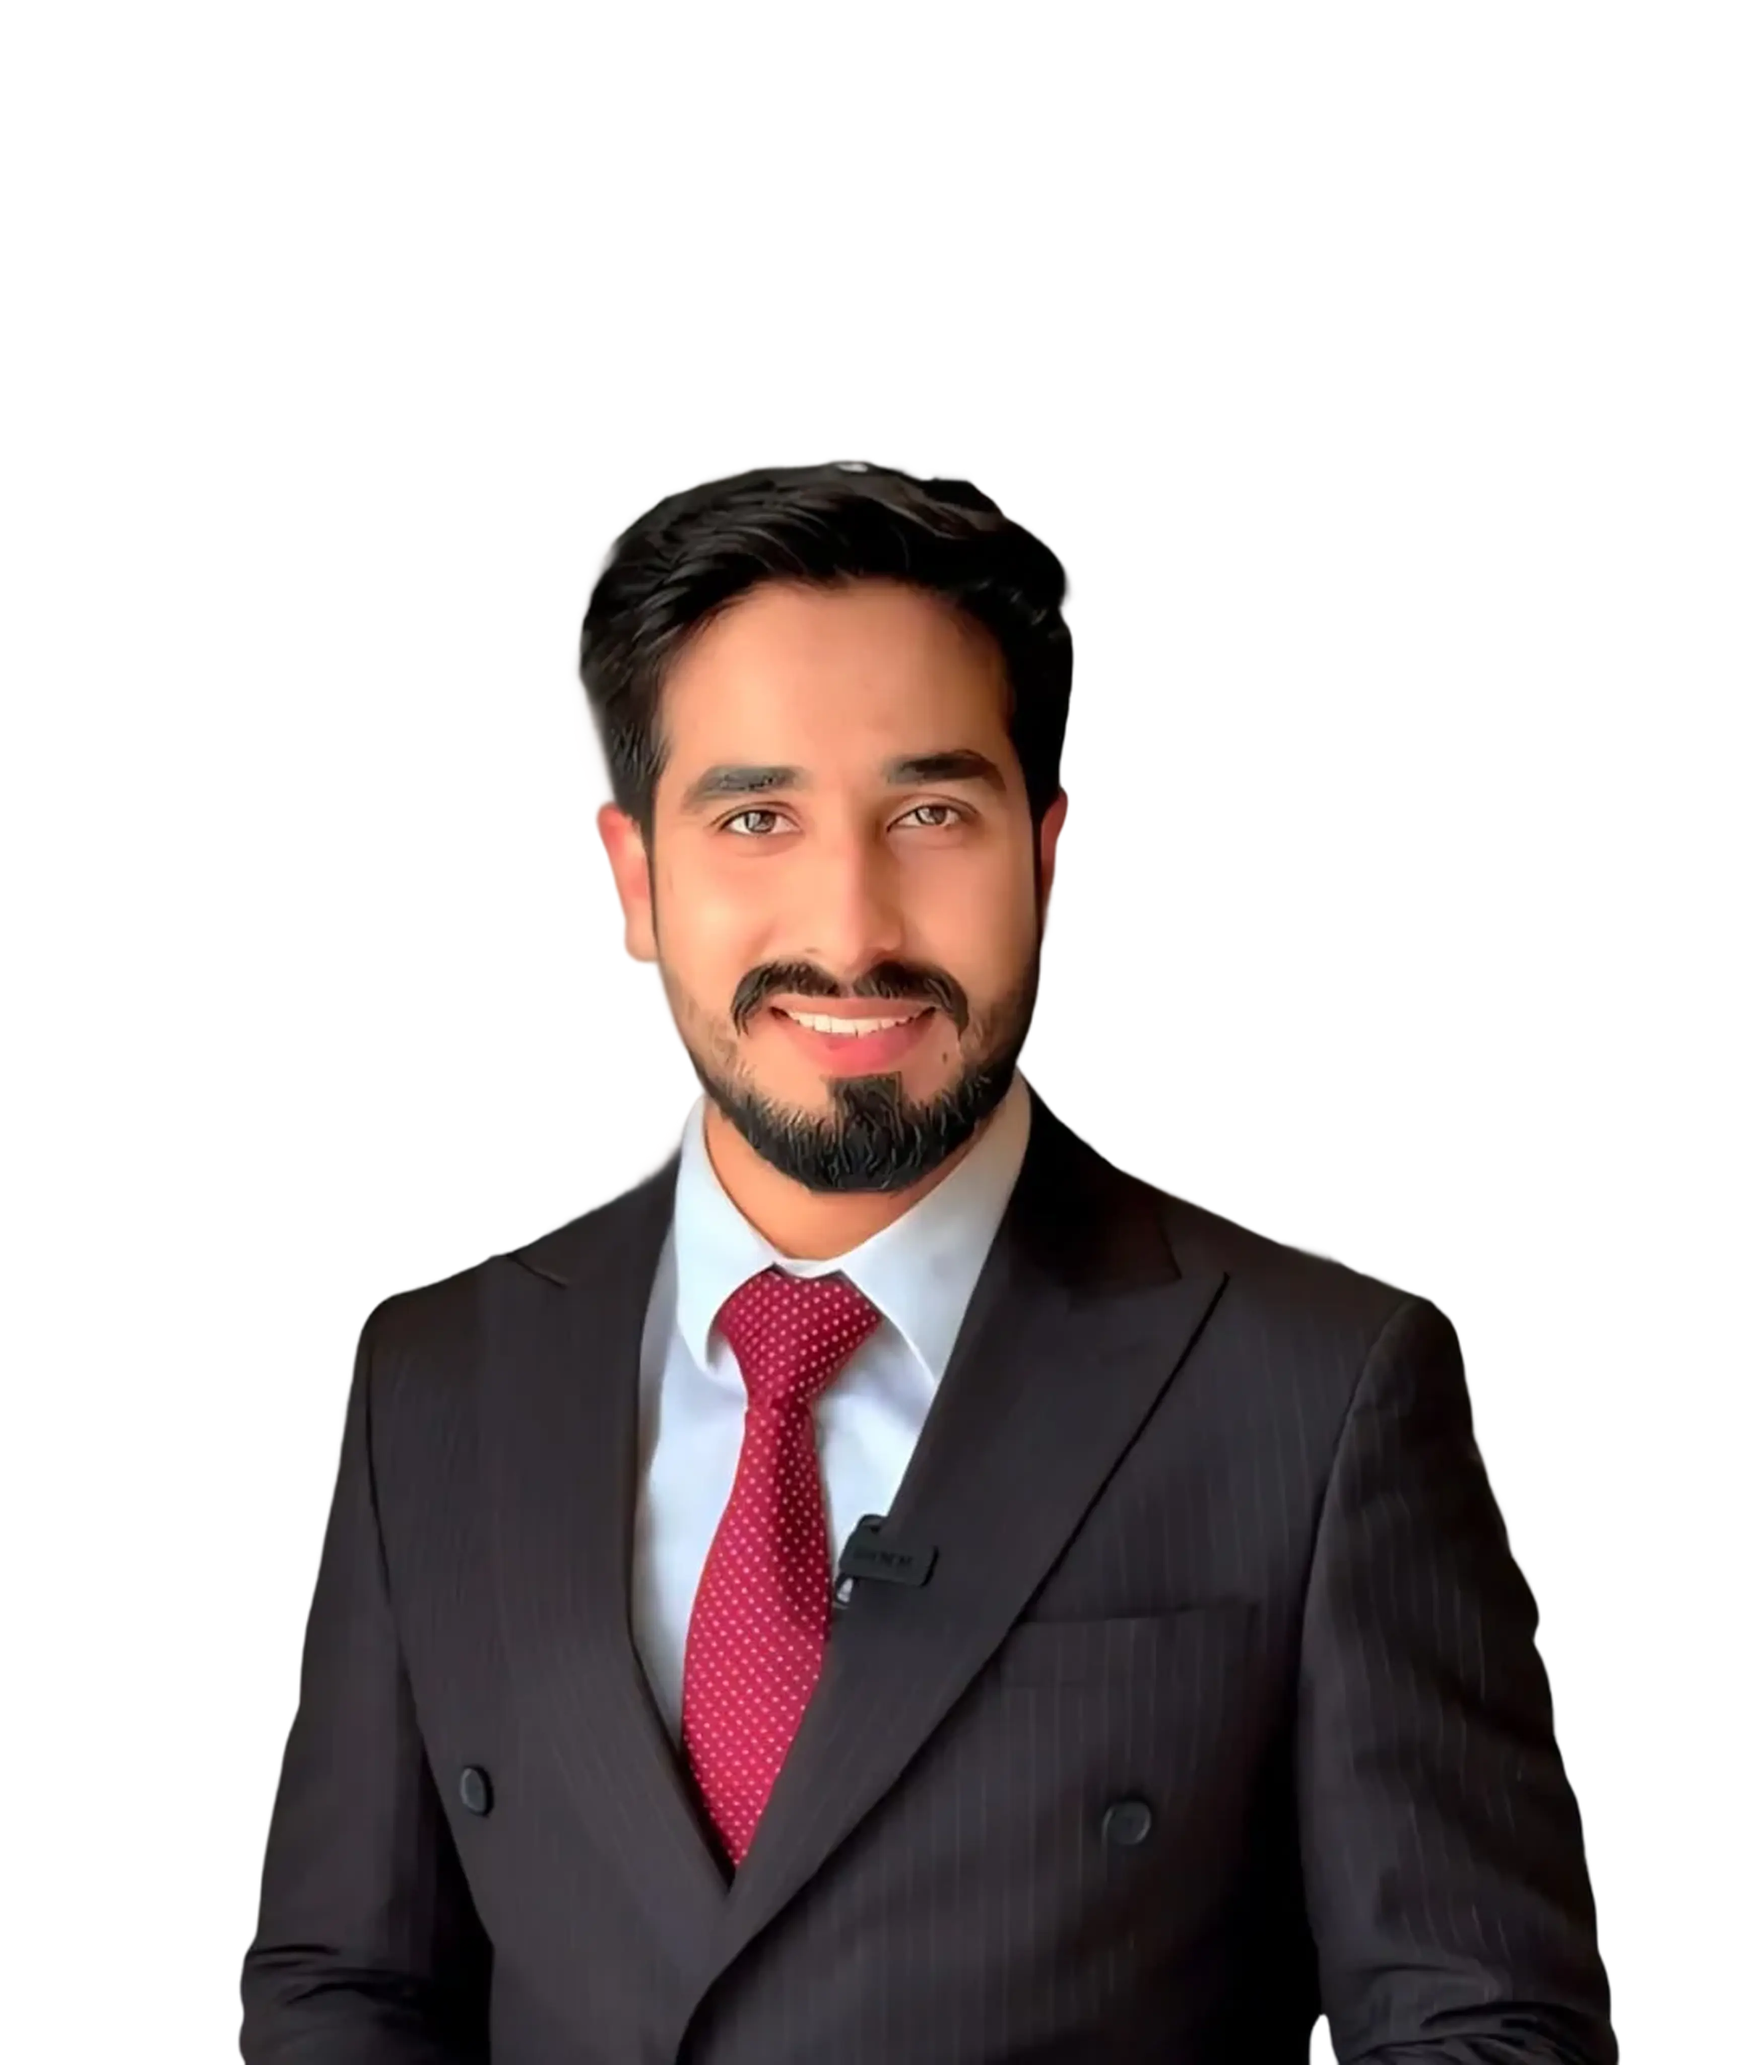
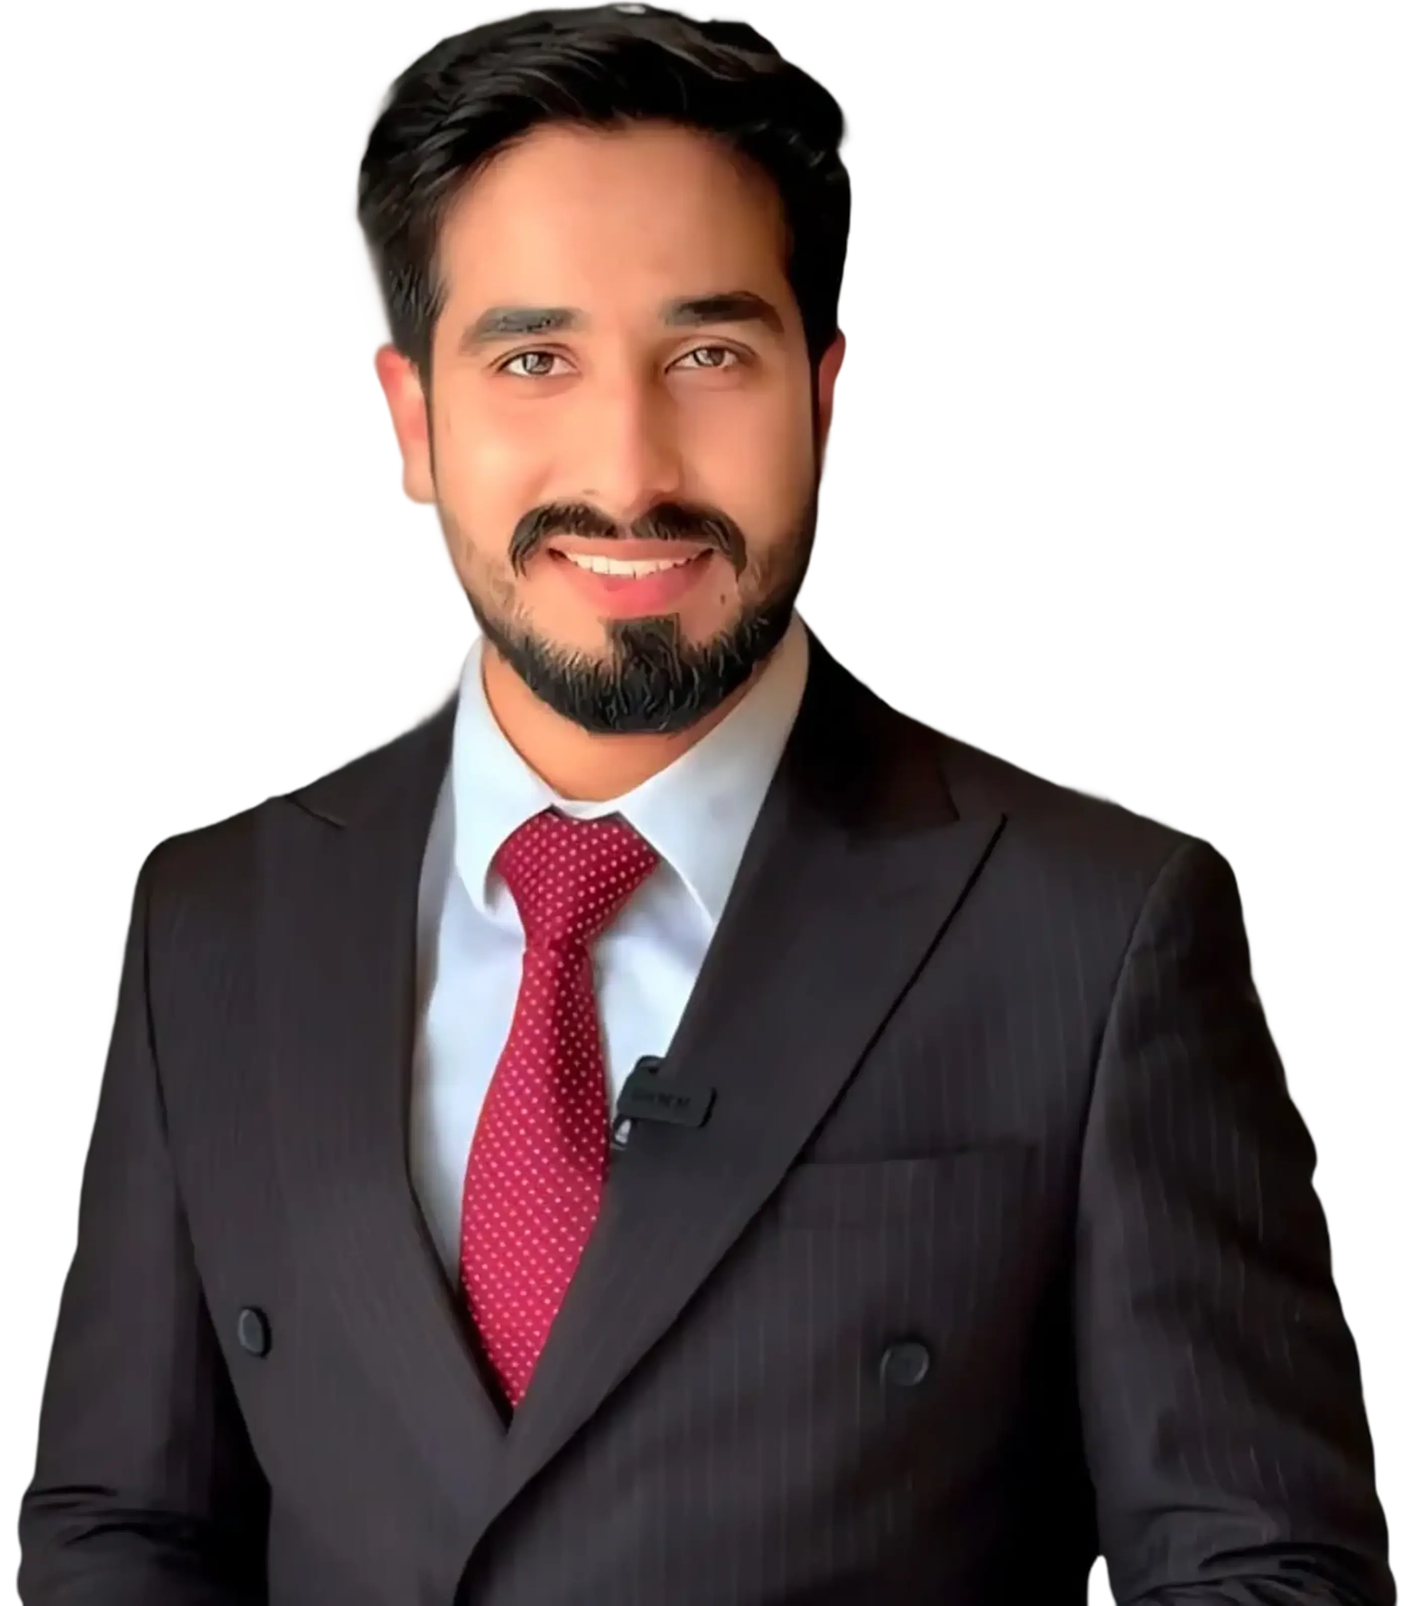
Added meet our team section

diff --git a/src/app/page.js b/src/app/page.js
@@ -29,43 +29,43 @@ export default function Home() {
     }
   ];
 
-  // const teamMembers = [
-  //   {
-  //     id: 1,
-  //     name: "Mustafa Aziz",
-  //     designation: "Founder & CEO",
-  //     image: "/home/team/mustafa-aziz.png",
-  //     row: 1
-  //   },
-  //   {
-  //     id: 2,
-  //     name: "Sunita Rajwani",
-  //     designation: "Senior Property Consultant",
-  //     image: "/home/team/sunita-rajwani.png",
-  //     row: 1
-  //   },
-  //   {
-  //     id: 3,
-  //     name: "Ruby Kaur",
-  //     designation: "Property Advisor",
-  //     image: "/home/team/ruby-kaur.png",
-  //     row: 1
-  //   },
-  //   {
-  //     id: 4,
-  //     name: "Hamdan Rizvi",
-  //     designation: "Sr. Business Development Manager",
-  //     image: "/home/team/hamdan-rizvi.webp",
-  //     row: 2
-  //   },
-  //   {
-  //     id: 5,
-  //     name: "Ahmed Khan",
-  //     designation: "Operations Manager",
-  //     image: "/home/team/ahmed-khan.png",
-  //     row: 2
-  //   }
-  // ];
+  const teamMembers = [
+    {
+      id: 1,
+      name: "Mustafa Aziz",
+      designation: "Founder & CEO",
+      image: "/home/team/mustafa-aziz.webp",
+      row: 1
+    },
+    {
+      id: 2,
+      name: "Sunita Rajwani",
+      designation: "Senior Property Consultant",
+      image: "/home/team/sunita-rajwani.webp",
+      row: 1
+    },
+    {
+      id: 3,
+      name: "Ruby Kaur",
+      designation: "Property Advisor",
+      image: "/home/team/ruby-kaur.webp",
+      row: 1
+    },
+    {
+      id: 4,
+      name: "Hamdan Rizvi",
+      designation: "Sr. Business Development Manager",
+      image: "/home/team/hamdan-rizvi.webp",
+      row: 2
+    },
+    {
+      id: 5,
+      name: "Ahmed Khan",
+      designation: "Operations Manager",
+      image: "/home/team/ahmed-khan.webp",
+      row: 2
+    }
+  ];
 
 
 
@@ -300,42 +300,42 @@ export default function Home() {
         </div>
         </section>
 
-        {/* Meet our Team Section
+        {/* Meet our Team Section */}
         <section
           className="bg-[#020202] py-8 sm:py-12 md:py-16 lg:py-20 w-full overflow-x-hidden"
           id="team"
         >
           <div className="max-w-[1440px] mx-auto px-4 sm:px-6 md:px-8 lg:px-20">
             <div className="flex flex-col gap-3 sm:gap-4 md:gap-5 lg:gap-6 mb-6 sm:mb-8 md:mb-10 lg:mb-12">
-              <h2 className="animate-on-scroll slide-in-left text-xl sm:text-2xl md:text-3xl lg:text-4xl font-medium text-left font-noto-sans leading-tight">
+              <h2 className="animate-on-scroll slide-in-left text-2xl sm:text-3xl font-medium text-left font-noto-sans leading-tight">
                 Meet our <span className="text-orange-600 font-semibold">Team</span>
               </h2>
-              <p className="scale-in-repeat text-xs sm:text-sm md:text-base lg:text-lg font-dm-sans text-white leading-relaxed">
+              <p className="scale-in-repeat text-sm sm:text-sm md:text-base lg:text-lg font-dm-sans text-white leading-relaxed">
                 Delivering expert guidance In Buying, Selling, And Investing.
               </p>
             </div>
 
-            <div className="scale-in-repeat flex flex-col gap-4 sm:gap-6 md:gap-8 lg:gap-10">
+            <div className="scale-in-repeat flex flex-col gap-6 sm:gap-8 md:gap-10 lg:gap-12">
              
-              <div className="grid grid-cols-1 sm:grid-cols-2 lg:grid-cols-3 gap-4 sm:gap-6 md:gap-8 lg:gap-10">
+              <div className="grid grid-cols-1 sm:grid-cols-2 lg:grid-cols-3 gap-4 sm:gap-6 md:gap-8">
                 {teamMembers
                   .filter(member => member.row === 1)
                   .map((member) => (
-                    <div key={member.id} className="flex flex-col gap-0 w-full items-center">
-                      <div className="relative w-full max-w-[280px] sm:max-w-[300px] md:max-w-[320px] lg:max-w-[280px] aspect-[3/4] mb-0 mx-auto">
+                    <div key={member.id} className="flex flex-col w-full items-center gap-0">
+                      <div className="relative w-[55%] sm:w-[65%] md:w-[60%] aspect-3/4 bg-black">
                         <Image
                           src={member.image}
                           alt={member.name}
                           fill
-                          className="object-cover grayscale"
-                          sizes="(max-width: 640px) 280px, (max-width: 1024px) 300px, 280px"
+                          className="object-cover object-top grayscale"
+                          sizes="(max-width: 640px) 55vw, (max-width: 768px) 32.5vw, (max-width: 1024px) 30vw, 20vw"
                         />
                       </div>
-                      <div className="bg-[#ff5810] px-3 py-2.5 sm:px-4 sm:py-3 md:px-5 md:py-4 w-full max-w-[280px] sm:max-w-[300px] md:max-w-[320px] lg:max-w-[280px] mx-auto">
-                        <p className="text-white font-dm-sans font-medium text-sm sm:text-base md:text-lg">
+                      <div className="bg-[#ff5810] px-3 py-2 sm:px-4 sm:py-3 md:px-5 md:py-4 w-[65%] sm:w-full text-center">
+                        <p className="text-white font-dm-sans font-medium text-xs sm:text-sm md:text-base lg:text-lg">
                           {member.name}
                         </p>
-                        <p className="text-white font-dm-sans text-xs sm:text-sm md:text-base">
+                        <p className="text-white font-dm-sans text-[10px] sm:text-xs md:text-sm lg:text-base">
                           {member.designation}
                         </p>
                       </div>
@@ -344,38 +344,36 @@ export default function Home() {
               </div>
 
              
-              <div className="grid grid-cols-1 sm:grid-cols-2 lg:grid-cols-3 gap-4 sm:gap-6 md:gap-8 lg:gap-10">
-                <div className="hidden lg:block"></div>
-                
-                {teamMembers
-                  .filter(member => member.row === 2)
-                  .map((member) => (
-                    <div key={member.id} className="flex flex-col gap-0 w-full items-center">
-                      <div className="relative w-full max-w-[280px] sm:max-w-[300px] md:max-w-[320px] lg:max-w-[280px] aspect-[3/4] mb-0 mx-auto">
-                        <Image
-                          src={member.image}
-                          alt={member.name}
-                          fill
-                          className="object-cover grayscale"
-                          sizes="(max-width: 640px) 280px, (max-width: 1024px) 300px, 280px"
-                        />
+              <div className="flex justify-center">
+                <div className="grid grid-cols-1 sm:grid-cols-2 gap-4 sm:gap-6 md:gap-8 w-full sm:w-[85%] md:w-[75%] lg:w-[65%]">
+                  {teamMembers
+                    .filter(member => member.row === 2)
+                    .map((member) => (
+                      <div key={member.id} className="flex flex-col w-full items-center gap-0">
+                        <div className="relative w-[55%] sm:w-[65%] md:w-[60%] aspect-3/4 bg-black">
+                          <Image
+                            src={member.image}
+                            alt={member.name}
+                            fill
+                            className="object-cover object-top grayscale"
+                            sizes="(max-width: 640px) 55vw, (max-width: 768px) 32.5vw, (max-width: 1024px) 30vw, 20vw"
+                          />
+                        </div>
+                        <div className="bg-[#ff5810] px-3 py-2 sm:px-4 sm:py-3 md:px-5 md:py-4 w-[65%] sm:w-full text-center">
+                          <p className="text-white font-dm-sans font-medium text-xs sm:text-sm md:text-base lg:text-lg">
+                            {member.name}
+                          </p>
+                          <p className="text-white font-dm-sans text-[10px] sm:text-xs md:text-sm lg:text-base">
+                            {member.designation}
+                          </p>
+                        </div>
                       </div>
-                      <div className="bg-[#ff5810] px-3 py-2.5 sm:px-4 sm:py-3 md:px-5 md:py-4 w-full max-w-[280px] sm:max-w-[300px] md:max-w-[320px] lg:max-w-[280px] mx-auto">
-                        <p className="text-white font-dm-sans font-medium text-sm sm:text-base md:text-lg">
-                          {member.name}
-                        </p>
-                        <p className="text-white font-dm-sans text-xs sm:text-sm md:text-base">
-                          {member.designation}
-                        </p>
-                      </div>
-                    </div>
-                  ))}
-
-                <div className="hidden lg:block"></div>
+                    ))}
+                </div>
               </div>
             </div>
           </div>
-        </section> */}
+        </section>
 
         <section
           className="bg-[#020202] w-full overflow-x-hidden"
